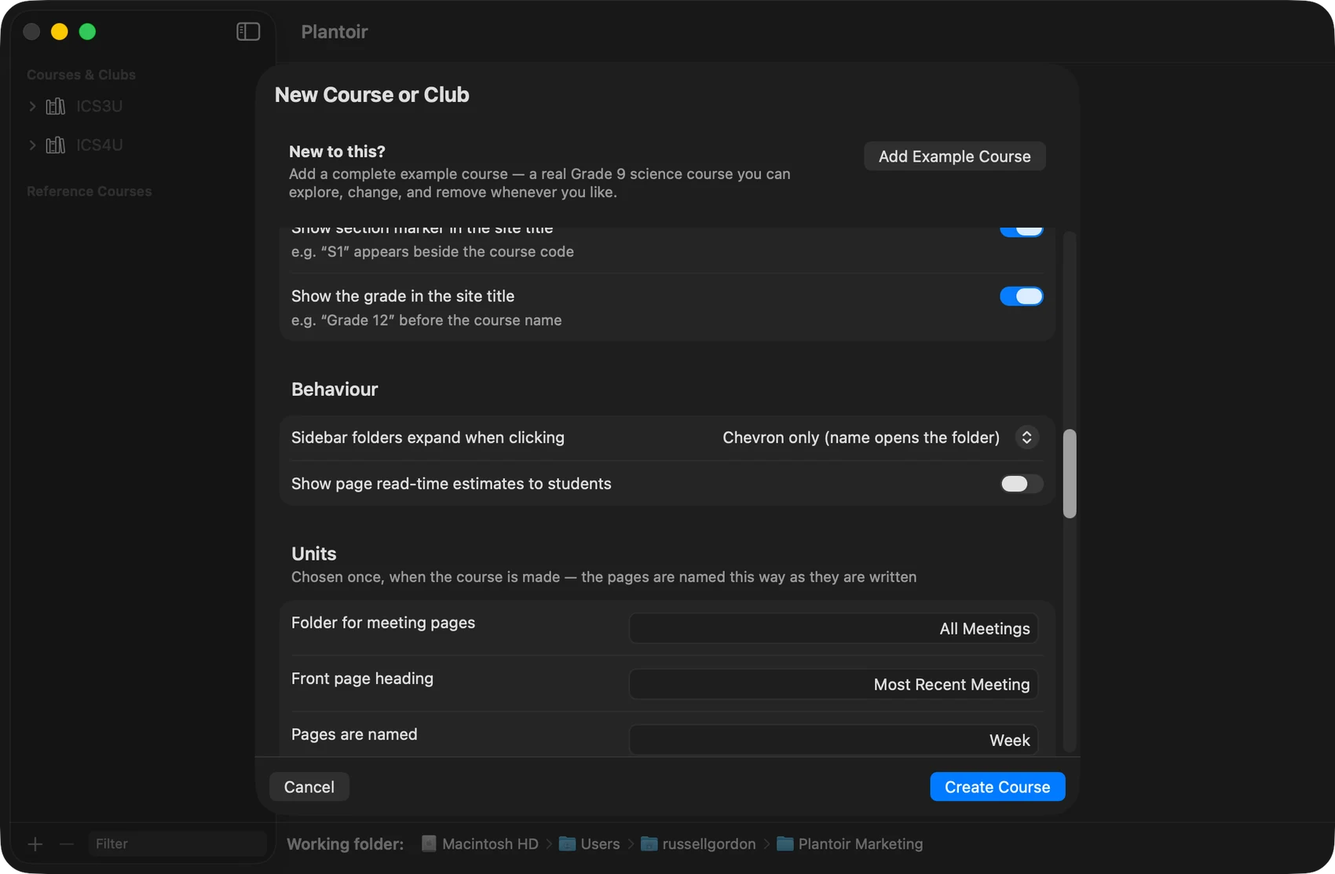
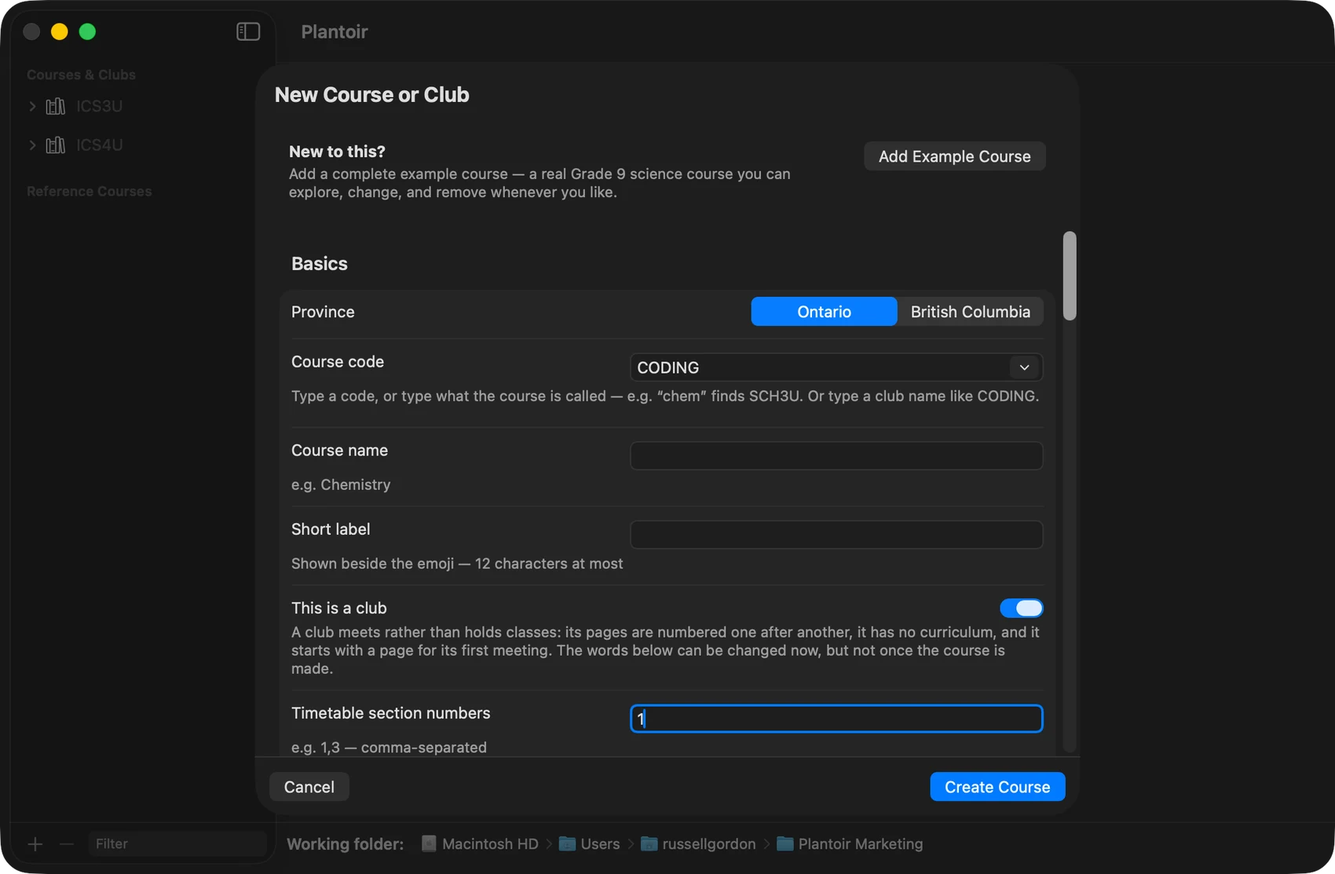
website half B review round (Opus review website-B-review.md): M1 courses/new-course show the Mac picture on Windows (windows: false honoured by build.py, stale -windows captures deleted, tested; Windows obligation in the draft and the GUI row); M2 Keyboard navigation restored on SIGTERM/SIGHUP too 
Claude-Session: https://claude.ai/code/session_01MHqhFmX19L8YTWrCoKzUFK

diff --git a/site/features/index.html b/site/features/index.html
@@ -125,10 +125,10 @@
   <p>For about 1,900 other Ontario courses, you get a starting outline that suits the subject — a drama course opens with conventions and warm-ups, a chemistry course with investigations and lab safety. Turn down the ready-made pages and you get that outline instead, with the curriculum expectations still there, so the coverage map works from the first day.</p>
   <figure class="shot">
     <picture>
-      <source srcset="../img/new-course-dark.webp" data-win-srcset="../img/new-course-windows-dark.webp" type="image/webp" media="(prefers-color-scheme: dark)">
-      <source srcset="../img/new-course-dark.png" data-win-srcset="../img/new-course-windows-dark.png" media="(prefers-color-scheme: dark)">
-      <source srcset="../img/new-course-light.webp" data-win-srcset="../img/new-course-windows-light.webp" type="image/webp">
-      <img src="../img/new-course-light.png" data-win-src="../img/new-course-windows-light.png" alt="The New Course panel with TEJ3M entered, offering its ready-made pages, folders and curriculum expectations."
+      <source srcset="../img/new-course-dark.webp" type="image/webp" media="(prefers-color-scheme: dark)">
+      <source srcset="../img/new-course-dark.png" media="(prefers-color-scheme: dark)">
+      <source srcset="../img/new-course-light.webp" type="image/webp">
+      <img src="../img/new-course-light.png" alt="The New Course panel with TEJ3M entered and its suggested course names offered beneath."
            width="850" height="556" loading="lazy" decoding="async">
     </picture>
     <figcaption>A course code is enough to start.</figcaption>
@@ -180,7 +180,7 @@
     </picture>
     <figcaption>Tick a folder, and it gets a map.</figcaption>
 </figure>
-  <p>A lesson can reach both. Its curriculum connection lists an Ontario expectation and an AP learning objective side by side, and each map counts it.</p>
+  <p>A lesson can reach both. Its curriculum connection quotes an Ontario expectation and an AP learning objective one after the other, and each map counts it.</p>
   <figure class="shot">
     <picture>
       <source srcset="../img/both-curricula-dark.webp" type="image/webp" media="(prefers-color-scheme: dark)">
@@ -339,7 +339,7 @@
       <source srcset="../img/club-dark.webp" type="image/webp" media="(prefers-color-scheme: dark)">
       <source srcset="../img/club-dark.png" media="(prefers-color-scheme: dark)">
       <source srcset="../img/club-light.webp" type="image/webp">
-      <img src="../img/club-light.png" alt="The New Course panel for a club, at its first-meeting settings: meeting pages kept in "All Meetings", and a front page headed "Most Recent Meeting"."
+      <img src="../img/club-light.png" alt="The New Course or Club panel with CODING entered and "This is a club" switched on, explaining that a club's pages are numbered one after another, it has no curriculum, and it starts with a page for its first meeting."
            width="850" height="556" loading="lazy" decoding="async">
     </picture>
     <figcaption>Clubs start the way clubs do.</figcaption>

diff --git a/mac-app/Tests/QuartzTeachersUITests/MarketingScreenshotTests.swift b/mac-app/Tests/QuartzTeachersUITests/MarketingScreenshotTests.swift
@@ -884,11 +884,13 @@ final class MarketingScenes: MarketingScreenshotCase {
             clubToggle.click()
         }
         XCTAssertEqual(clubToggle.value as? Int, 1, "The club toggle should be ticked before the picture")
-        // The club's own fields sit lower in the panel. A form XCUITest cannot
-        // scroll is photographed only when the field is on screen; anything
-        // else would be a picture of the top of the panel filed as a club.
-        XCTAssertTrue(scrollSettings(in: application, to: "clubFrontPageHeadingField"),
-                      "The club's front-page heading should be on screen")
+        // Framed at the top of the panel: CODING and the ticked switch, with
+        // the switch's own explanation under it, are what say "club". The
+        // meeting fields sit a screen further down and cannot share the
+        // frame; a picture of them alone read as the ordinary course panel
+        // (website-B review M3), since that part still says Units and Create
+        // Course (#368).
+        XCTAssertTrue(clubToggle.isHittable, "The club switch should be on screen")
         settle(1.5)
         save(window, as: "club")
         application.buttons["wizardCloseButton"].click()

diff --git a/website/pages/features.html b/website/pages/features.html
@@ -55,7 +55,7 @@ nav_label: Features
   <p>Put each curriculum in its own folder, tick it in Course Settings, and every build draws a map for each: one for the Ministry's expectations, one for the other framework, each shaded by the pages that reach it.</p>
   {{shot:two-maps}}
   {{shot:curriculum-settings}}
-  <p>A lesson can reach both. Its curriculum connection lists an Ontario expectation and an AP learning objective side by side, and each map counts it.</p>
+  <p>A lesson can reach both. Its curriculum connection quotes an Ontario expectation and an AP learning objective one after the other, and each map counts it.</p>
   {{shot:both-curricula}}
   <p>Starting a second curriculum from nothing? <a href="{{up}}support/#second-curriculum">Support</a> says how — and Claude or Codex can draft the pages for you to check.</p>
   {{availability:two-curricula}}

diff --git a/website/shots/scenes.py b/website/shots/scenes.py
@@ -139,7 +139,7 @@ SCENES: list[Scene] = [
         name="club", produces=["club"], kind="ui-test", test="testClubWizard",
         identifiers=["addCourseButton", "wizardCourseCodeField", "clubToggle", "clubFrontPageHeadingField",
                      "wizardCloseButton"],
-        what_it_sets_up="The New Course panel for CODING with \"This is a club\" ticked; cancelled.",
+        what_it_sets_up="The New Course panel for CODING with \"This is a club\" ticked, framed at the top of the panel; cancelled.",
     ),
 ]
 
@@ -576,19 +576,24 @@ class ObsidianRegistryKept:
         OBSIDIAN_REGISTRY.write_text(json.dumps(registry), encoding="utf-8")
         return True
 
+    @staticmethod
+    def quit_obsidian() -> None:
+        """Quit Obsidian and WAIT for it to be gone: it writes its list of
+        vaults back as it quits, so anything put back before then is lost."""
+        subprocess.run(["osascript", "-e", 'quit app "Obsidian"'], capture_output=True)
+        for _ in range(40):
+            if subprocess.run(["pgrep", "-x", "Obsidian"], capture_output=True).returncode != 0:
+                break
+            time.sleep(0.25)
+
     def __exit__(self, exc_type, exc_value, traceback) -> bool:
         if self.saved is None:
             if not self.was_running and OBSIDIAN_REGISTRY.exists():
-                subprocess.run(["osascript", "-e", 'quit app "Obsidian"'], capture_output=True)
-                time.sleep(2)
+                ObsidianRegistryKept.quit_obsidian()
                 OBSIDIAN_REGISTRY.unlink()
             return False
         if not self.was_running:
-            subprocess.run(["osascript", "-e", 'quit app "Obsidian"'], capture_output=True)
-            for _ in range(40):
-                if subprocess.run(["pgrep", "-x", "Obsidian"], capture_output=True).returncode != 0:
-                    break
-                time.sleep(0.25)
+            ObsidianRegistryKept.quit_obsidian()
             OBSIDIAN_REGISTRY.write_bytes(self.saved)
         if OBSIDIAN_REGISTRY.read_bytes() != self.saved:
             print("   ✗ Obsidian's list of vaults is not as it was (Obsidian was already open, so it was "

diff --git a/website/shots/capture.py b/website/shots/capture.py
@@ -630,12 +630,27 @@ class KeyboardNavigationOff:
     def __enter__(self) -> "KeyboardNavigationOff":
         read = subprocess.run(["defaults", "read", "-g", "AppleKeyboardUIMode"], capture_output=True, text=True)
         self.saved: str | None = read.stdout.strip() if read.returncode == 0 else None
+        # A run ended by SIGTERM or SIGHUP (a closed terminal, a killed
+        # shell) would skip __exit__: Python has no handler for either, so
+        # turn both into SystemExit and the `with` unwinds as for Ctrl-C.
+        import signal
+        self.previous_handlers: dict = {}
+        for number in (signal.SIGTERM, signal.SIGHUP):
+            self.previous_handlers[number] = signal.signal(number, KeyboardNavigationOff.exit_on_signal)
         if self.saved not in (None, "0"):
             subprocess.run(["defaults", "write", "-g", "AppleKeyboardUIMode", "-int", "0"], capture_output=True)
-            print(f"   Keyboard navigation off for the run (was {self.saved}; put back afterwards).")
+            print(f"   Keyboard navigation off for the run (was {self.saved}; put back afterwards — if this run "
+                  f"is killed hard, restore it with: defaults write -g AppleKeyboardUIMode -int {self.saved}).")
         return self
 
+    @staticmethod
+    def exit_on_signal(number, frame) -> None:
+        raise SystemExit(128 + number)
+
     def __exit__(self, exc_type, exc_value, traceback) -> bool:
+        import signal
+        for number, handler in self.previous_handlers.items():
+            signal.signal(number, handler)
         if self.saved is None:
             subprocess.run(["defaults", "delete", "-g", "AppleKeyboardUIMode"], capture_output=True)
         elif self.saved != "0":

diff --git a/website/build.py b/website/build.py
@@ -233,7 +233,12 @@ def picture_element(shot: dict, problems: list[str], modifier: str, up: str) -> 
     display_width = width // 2
     display_height = height // 2
 
-    has_windows = win_light.exists() and win_dark.exists()
+    # `windows: false` says Windows has no such scene yet, so a Windows
+    # visitor sees the Mac picture — with the alt text and caption that were
+    # written for it. Only the image is swapped on Windows, never the words,
+    # so an older Windows capture left on disk would sit under a caption about
+    # a different picture (website-B review M1: courses and new-course).
+    has_windows = shot.get("windows") is not False and win_light.exists() and win_dark.exists()
     win_prefix = f"{identifier}-windows-" if has_windows else ""
 
     sources: list[str] = []
@@ -297,7 +302,7 @@ def static_element(shot: dict, problems: list[str], modifier: str, up: str) -> s
     identifier = shot["id"]
     source = IMAGE_DIR / f"{identifier}.png"
     win_source = IMAGE_DIR / f"{identifier}-windows.png"
-    has_windows = win_source.exists()
+    has_windows = shot.get("windows") is not False and win_source.exists()
 
     classes = "shot shot-static"
     if modifier:

diff --git a/website/test_build_data.py b/website/test_build_data.py
@@ -234,6 +234,17 @@ class ReleaseReadinessTests(unittest.TestCase):
         self.assertIsNone(build.release_readiness_refusal(site, {"shots": []}))
 
 
+class WindowsSwapTests(unittest.TestCase):
+
+    def test_windows_false_shows_the_mac_picture_to_everybody(self):
+        # `preview` has -windows files on disk; with `windows: false` they are
+        # not offered, because the alt text and caption describe the Mac one.
+        shot = {"id": "preview", "alt": "a", "caption": "c", "windows": False}
+        self.assertNotIn("data-win-src", build.picture_element(shot, [], "", "./"))
+        shot["windows"] = True
+        self.assertIn("data-win-src", build.picture_element(shot, [], "", "./"))
+
+
 class AwaitingCaptureTests(unittest.TestCase):
 
     def test_a_shot_awaiting_capture_renders_nothing_and_is_not_a_problem(self):

diff --git a/GUI-IMPROVEMENTS.md b/GUI-IMPROVEMENTS.md
@@ -996,3 +996,4 @@ run clean via `dotnet test Plantoir.Tests/Plantoir.Tests.csproj` (0 failures).
 | 603 | 2026-09-26 | **#335, #343, #341: deploying or scheduling from a section window uses the settings as SAVED, and says so when Course Settings has unsaved changes; re-dating reports what moved without a negative count; the process-scan test no longer depends on a child the system kills.** #335: the Deploy button, the local assistant's deploy through an open window, and the schedule sheet all took the destination from the window's in-memory copy, including unsaved Course Settings edits, while the launcher's `deploy.py` read the rest from the file and since #322 the assistant read the SAVED file — so a teacher could be shown Netlify and get a folder, from a publish half built from each. Now every act reads the file at that moment (`Course.asSavedNow()`; the sheet at every redraw and again at the press), refuses with `specialNames.settingsCouldNotBeReadToDeploy` rather than guessing when it cannot, and says `specialNames.deployUsesSavedSettings` (the preview's banner, set AFTER the preview stop that clears it; also added to what the assistant says) / `schedulingUsesSavedSettings` (above the sheet's plan) when any window holds unsaved edits — the preview's rule since #265. No Save button in the sheet (director's ruling): since #323 the run reads the file when it fires, so a Save after scheduling is honoured, and a second Save path would bypass Course Settings' checks, notices and trail line. Trail: `deploy used the saved settings` (the act, the saved destination's kind, whether the unsaved edits named another kind — never a path). Contract `shared-rules.json` → `actsUseTheSavedSettings` (7 cases). The plan's case 2 asserted the approval card names Netlify; the deploy card names no destination at all today, so the case asserts the act only. #343: "Re-dated 14 classes and -4 pages they use" came from `moves.count - classCount`. Now each count is what was actually written, each from its own kind, a declined page (#186) is counted nowhere, the undo line names the classes that moved, and a section whose classes were already right says `wording.reDatedOnlyPagesTheyUse`. Contract `class-planning.json` → `reDatingASection.reportedCounts` (5 cases). `tools.planTwinsNote` now says FIVE writes have no twin (`back_up_course`, reached by the card "back up this course"). #341: measured on an M4 Pro, macOS 26.6 (the plan's probe): an unsigned copy of `/bin/sh` in a temp folder is SIGKILLed within about 1–100 ms (60 of 60), so the test passed only by scanning first. The copy is now `/bin/bash`, re-signed ad hoc, held on `read` with a bounded 2 s wait until the scan sees it and a liveness assertion after every scan. Must-fails: an unsigned `/bin/sh` goes red on liveness (M1); a RE-SIGNED `/bin/sh` stayed green under the test host (M2, against the plan's 0 of 10 from a shell), and closing the stdin pipe at once goes red once the check waits 200 ms (M3b) — an open standard input is what keeps `read` waiting; with no pipe at all the child inherits the test host's stdin, which stayed open (M3 green), so the pipe is held to make that the test's own (a first reading without the wait said otherwise; corrected on review). Implementer Opus 5.5. Reviews (Opus 5.5): plan review before implementation; implementation review (`reviews/bundleA-impl-review.md`) found F1 (the M3/M3b reason, corrected), F2 (the assistant's copy of the sentence unpinned: now `SectionDetailView.whatTheAssistantIsTold` and `SettingsSaveNotice.addingTheNotice`, tested and source-pinned), F3 (a preview's wait loop could clear the deploy's banner: now `unsavedSettingsNoticeOwner`, and a preview's end clears only its own sentence) and F4 ("only the 0 pages": a re-date that wrote no date now says `wording.everyPageIsAlreadyOnItsDay`, or only the declined sentence, the fifth case); Fable sweep owed (director). | Done (mac) | **Owed, #343:** your two copies (`AssistWorkspace.cs` ~:2244, `PlantoirTools.cs` ~:1206) do `moved - classCount`. Count classes and pages from what was written, per kind, and wire `class-planning.json` → `reDatingASection.reportedCounts` (5 cases) and the new wording keys `reDatedOnlyPagesTheyUse` (+ `…ForAMeeting`) and `everyPageIsAlreadyOnItsDay` (a re-date that wrote no date says it, or only the declined sentence — never "only the 0 pages"). **Owed, #335:** check whether your Deploy button, your schedule dialog (`SidebarPane.xaml.cs` ~:758) and the assistant pressing your section's deploy (`SectionDetailView.xaml.cs` ~:1301) read `_course.Configuration` while Course Settings holds unsaved edits. If they do, read the file at the act and never write the result back into the shared copy; refuse when it cannot be read. Wire `shared-rules.json` → `actsUseTheSavedSettings` (7 cases), the three `specialNames` keys (`message` only) and the trail event. Trap: if a preview's end clears your banner, give the banner an owner and let a preview's end clear only its own sentence — setting the deploy's after the stop is only likely to win (the mac's review F3). **#341:** nothing to mirror; the trap is mac-only (launch constraints), but if you ever copy a system binary to fake a process, assert it is still alive when you scan. |
 | 604 | 2026-09-27 | **Bundle B (#333, #331, #325, #330, #334, and the background warm-up): the build names links students would find dead; a `%%` comment is never a link; the copy carries pictures named in `<…>`, and every walk reads Markdown-style page links; editing How I Teach no longer marks a section "— Edited"; a smaller first download from a pinned base; and the website builder is got ready in the background at first launch.**<br>**#333:** a class published by its own flag, with links into pages that are still hidden, now gets a site-health warning at build time: ONE finding per section build naming up to ten “page” → “hidden page” pairs (path first, then name; a shared name only when every page is hidden; embeds count; code and comments do not). Not repairable; scheduled deploys still publish. Measured: 0 findings on any of the 39 payloads as installed; an emulation of #96 flipping SNC1W's second class visible lists the dead link #333 describes, and a front page embedding a hand-hidden class is listed too.<br>**#331:** Quartz removes `%%…%%` before reading anything. The toolchain and the mac now mask comments FIRST and find code in what is left: 0 disagreements with Quartz over 39,570 shipped links and 12 new cases. 344 skeleton "links" inside comments are no longer followed; no class page reaches fewer pages. The curriculum markers are comments, so the code mask stays code-only (the map-empties trap, guarded). Fixed on the way: AVI1O's and TEJ4M's task templates closed their note comment early on a `%%` in prose, so copies showed the teacher's note (new courses only); three template notes that said comment links "still count" corrected; the linter refuses an odd `%%` count.<br>**#325:** copying a page between courses now carries and renames a picture named as `![](<one pic.png>)`, written back plain inside the brackets (#97's rule). Folded in: publishing, the unpublish referrer test, the links question and check_section read Markdown-style links to pages, `[w](Worksheet.md)` and `[w](<Unit 2/Worksheet 2.md>)`, through the same mask; ENL1W's one local Markdown link, itself dead, is now a wikilink. A page rename does not yet rewrite a Markdown-style link.<br>**#330:** the stamp records `fingerprintRule`; rule 2 leaves the How I Teach page at a reserved place out; an old stamp is read as rule 1, so upgrading raises no false "Edited" (a course WITH the page shows it once, on the first edit of that page). `section_fingerprint.py --rule 2`, default still 1 for Windows.<br>**#334:** Quartz cloned at depth 1 (≈382 → ≈342 MB for a new teacher; 38 MB less `.git` per section's first build), the unused `/opt/quartz-site` copy removed (−468 MB of image disk per version), the base pinned by digest (the one every build here already resolved, Python 3.11.15 / Debian 13). **One-time cost:** a Mac that already has the builder re-downloads ≈130 MB at its first build after this update — and since the warm-up, that happens in the background at first launch.<br>**Background warm-up** (Russell, 2026-09-26: build it): at first launch and the first launch of each new version, `setup.sh --prepare-builder` runs quietly from `~/Library/Application Support/Plantoir/getting-ready`; one line at the foot of the sidebar ("Getting this Mac ready to build your websites…"); offline or in Low Data Mode it says nothing and the first preview does it. A Create or Preview arriving mid-build waits in the launcher (the GETTING-READY turn, identical in all three; a reused id or a turn over two hours old is taken over) and builds nothing. Re-warms when the recipe's own hash changes (`setup.sh --builder-tag`), not the version. Four new trail events. Measured on an M4 Pro: a first preview with the builder ready — new workspace, scaffold staged from scratch — 4.1 s (EXC2O, 271 pages), against the 22–27 s start plus 49–52 s build it used to carry here (88–137 s build in a teacher's fresh VM). | Implemented on Opus 5.5; reviews: the director's. Tests: Python 601 OK; targeted Swift classes green; must-fails recorded in `ready/bundleB.md`. | **Notes for Windows port:**<br>(1) **#333: the build check is inherited free** (shared Python; an ordinary `PLANTOIR_HEALTH:` line; `SiteHealthRepair` offers nothing for it). **Your check_section owes MATCH**: `siteHealth.linksIntoHiddenPages.cases` through it, and Markdown-style links read there (issue 2 of the bundle B draft; review S3). After Get Ready the warning is expected and true (doc 05).<br>(2) **#331: MATCH, after #313's `whatIsCode`.** Mask comments FIRST over the raw page, then find code in the comment-stripped text mapped back to page offsets. Do NOT fold comments into your code ranges: the curriculum markers are comments. `FolderPathRewriterTests` goes red on the new `linkRewriting` case until then.<br>(3) **#325: nothing now for the copy** (two copy cases wait for your copy feature). **Folded walks: MATCH** — your publish walk and referrer test owe `followingLinks.markdownStyleLinks` (+3 cases, red until then).<br>(4) **#330: MUST, all at once:** C# rule 2 and the `fingerprintRule` stamp field, the scheduled wrapper passing `--rule 2`, and `ScheduledDeployCompletion` recording rule 2. Until then change nothing; the Python default is still rule 1 for you.<br>(5) **#334: nothing to mirror** (your runtime is bundled).<br>(6) **Warm-up: nothing to mirror.** Windows carries its runtime and builds natively, so there is no builder to get ready; `builderWarmUp` and its four trail events are `appliesOn: ["mac"]`. |
 | 605 | 2026-09-26 | **Course Settings gets a How I Teach row; approving an assistant change no longer freezes the window; the folder note keeps its lines; the wizard loses a stray "Unit".** (1) #329: beside the curriculum folders, "How I Teach page" with Open, or Create and Open when the course has none. (2) #351: approving a rollover, re-dating or publish held the window for up to two minutes while the course was zipped — and every other backup (Back Up Now, restore's archive, removing a course or section, the unit-word rename) froze it for as long as its zip took. (3) #213: the folder publish's note lost a line with the sidebar dragged wide. (4) #354: the wizard's "What do you call a unit?" row showed the field's title "Unit" beside it. (5) #353: the credential sheet's field and Send button, and four other panels' inner controls, had identifiers no test could reach. | ✅ (1) Creates exactly `---\npublish: false\n---\n` and nothing else — #209 rejected a starter text because an assistant would read it as the teacher's approach — then opens the page itself in Obsidian (not the vault). An empty page now counts as NOT written for every tool that describes it (else an assistant was told "already written" about a page with nothing in it): one predicate, `HowITeachPage.hasWords`. Trail: "How I Teach page started". (2) Two causes, measured. What HELD the window was the conversation's `LazyVStack`, placing itself in a loop that never ended (98% of every one-second sample; with the zip already off the main thread the rollover UI test passed 2 runs in 13 with the lazy stack, 8 in 8 with a plain `VStack`, the question 1.05–1.07 s after Approve; a source test keeps the conversation plain). The zip also ran on the main thread (`waitUntilExit`, a nested run loop; 9.7 s on a real course); now every zip goes through one `@concurrent` door, and the assistant shows "Saving a copy of {course} first…" under its dots, shares a copy in flight per course, and never remembers a failed one. Trail: "assistant backed up a course" (name, MB, seconds). All twelve zip callers in this piece, start of the year included (Russell's ruling, not a follow-up); while a zip runs the course's Back Up Now, Restore, Remove and Preview are greyed, its row shows a spinner and ⌘Q asks; every assistant write works its plan out again after the copy and refuses one that no longer fits. (3) Re-argued: red only in a column of 400 or less, reachable only by dragging the sidebar to 700; the sidebar now stops at 320 (column 572, measured) and the console is untouched — the console fix planned for it measured WORSE at 560 (15 of 30). (4) Empty title, placeholder kept with `prompt:`; a source tripwire fails any titled field inside a labelled row. (5) `.accessibilityElement(children: .contain)` before a container's identifier. Reviews: to be run by the director (plan reviewed before implementation). | **(1) MATCH, issue drafted**: the row, its words (`howITeachPage.settingsButton`), create-empty-then-open, and `emptyPageIsNotWritten` in your MCP read/list/plan/write — both lists are unrun there until you do. (2) Check whether your `BackUpOnceForThisConversation` zips on the UI thread during a tool call; if so, the same fix (`Task.Run` + await) and the same line (`backingUpFirst`); you owe the "assistant backed up a course" trail event either way. (3) Nothing to port: check your sidebar has a maximum and your folder note at your minimum window. (4) Check your wizard's unit-word row for a second label. (5) Nothing (AutomationIds are not stamped on children). **Review rounds:** (6) KNOW, mac-only: ⌘Q now asks while a copy of a course is being saved — `quittingWhileWorkIsUnderWay` gained `copiesBeingSaved` and a ninth case, `appliesOn: ["mac"]` like the rest of that block, no Windows reader. (7) CHECK once your backups leave the UI thread: the course must count as busy for the whole zip (preview, publish, restore, removal, the assistant), a restore and a removal ask again after their zip, and a removal refuses while busy. (8) CHECK, same condition: every assistant write that backs up first works its plan out again after the copy and refuses with `changedWhileSavingACopy` — the start of the year included, which also refuses when its re-plan fails. |
+| ROW_TBD | 2026-09-27 | **plantoir.app for v1.4.0, half B: the site carries the v1.4.0 pictures, and the copy says what #128 and #96 actually do.** (1) Copy corrected against the landed code. Get Ready for the Start of the Year: undo lasts until the section or any of its pages is next published, another page is put into draft, or Plantoir quits (the copy had said "until you publish or change that section again"). What goes into draft now includes pages nothing students can still see links to. What stays includes the first class's pages and every curriculum page. `features#two-curricula` links `support/#second-curriculum` again. (2) Pictures taken in light and dark from the kept marketing folder `~/Plantoir Marketing` (ICS3U + ICS4U + the College Board learning objectives + the CSP correlation, verified page by page: 52/52 evidence phrases on their pages, 123 embeds, 42 of 66 objectives reached): courses, new-course, reference, start-of-year, curriculum-settings, two-maps, both-curricula, club; `--app` and `--sites` retaken on dev d467ede6. ICS3U section 2 is provisioned as a second semester (from 2027-02-02) so the start-of-year story is true. (3) `shots.json → waiting_on: "#<issue>"`: `schedule` and `how-i-teach` wait on #367 (Sleep Focus; an open Obsidian). `--deploy` lets such a shot through and the section reads on its text. (4) Found while capturing, filed on v1.4.1: #362 plan shows file paths, #363 "— Edited" in the title during preview, #364 Save enabled on a fresh Course Settings, #365 Copy a Page checklist taller than the screen, #366 start-of-year sheet's identifier hides its buttons', #368 club mode says Units / Create Course, #369 "Quartz locale". (5) The capture harness: finders fixed on the real desktop (scroll wheel for forms, snapshot text for the web view, identifiers over labels); the model-server sweep kills only this checkout's orphans (it had killed another session's); Keyboard navigation is borrowed off for a scenes run and put back, SIGTERM/SIGHUP included. Implementer Opus 5.5; reviewed by Opus 5.5 (website-B-review.md). | Done on the branch; images committed; waiting on #367 for two pictures. | **M1 (OWE):** `courses` and `new-course` are v1.4.0 scenes now (ICS3U/ICS4U with Reference Courses; TEJ3M in New Course), and their alt text and captions describe the Mac pictures. The old `-windows` captures showed ENG2D/SCH3U and SBI3U, and the page swaps only the image on Windows, never the words. So they are deleted, and both ids are `"windows": false`: Windows visitors see the Mac picture. Retake both from the marketing folder when the Windows app has Reference Courses and the ready-made New Course offer, then set `windows: true` (details in the website-windows draft). **KNOW:** `waiting_on` is shared site data; nothing to port. **KNOW:** #362–#369 are mac issues; where they name wording (#362, #368, #369), check the Windows app says the same thing and fix both. |

diff --git a/website/README.md b/website/README.md
@@ -161,7 +161,12 @@ companions, and rebuilds the site.
 ### What it borrows and puts back
 
 The Mac's appearance, the app's remembered window sizes, the frontmost
-application, and any Safari window it opened. It holds off sleep while it runs
+application, and any Safari window it opened — and, for a `--scenes` run,
+the Mac-wide Keyboard navigation setting (`AppleKeyboardUIMode`), switched
+off so no sheet photographs with a focus ring and put back exactly after,
+including on SIGTERM/SIGHUP. Check it with
+`defaults read -g AppleKeyboardUIMode` after a run that died; the run prints
+the value to restore when it starts. It holds off sleep while it runs
 so a capture started at night survives the displays going dark — but the Mac
 itself has to stay awake and unlocked.
 
@@ -297,7 +302,8 @@ named, when a picture it owes is missing, when the text Vision reads on it
 behind it was wrong (an empty plan, a refused copy, an empty second map). The
 count is the exit code now.
 
-It puts back the Mac's appearance, window sizes, Obsidian's list of vaults and
+It puts back the Mac's appearance, window sizes, Obsidian's list of vaults,
+Keyboard navigation (`defaults read -g AppleKeyboardUIMode` to check) and
 the frontmost app, and cancels any schedule it set that has not run. **It
 leaves** one notification in Notification Center (a script cannot withdraw
 another app's), ordinary lines in the activity trail

diff --git a/.claude/skills/marketing-screenshots/SKILL.md b/.claude/skills/marketing-screenshots/SKILL.md
@@ -254,11 +254,16 @@ fix by hand anything a crashed run left behind:
 
 ```bash
 osascript -e 'tell application "System Events" to tell appearance preferences to get dark mode'
+defaults read -g AppleKeyboardUIMode
 xcrun simctl list devices | grep Booted
 ```
 
 - **Appearance** must be what it was. A half-finished run can leave the Mac
   in the wrong colour scheme.
+- **Keyboard navigation** (`AppleKeyboardUIMode`) must read what it did
+  before. A `--scenes` run switches it off Mac-wide, so no sheet photographs
+  with a focus ring, and prints the value to put back; it restores it on a
+  normal end, an error, Ctrl-C, SIGTERM and SIGHUP, but not on SIGKILL.
 - **Any simulator YOU booted** gets shut down. One that was already running
   is not yours — leave it.
 - **Window sizes.** The app's remembered frames are saved and put back around
